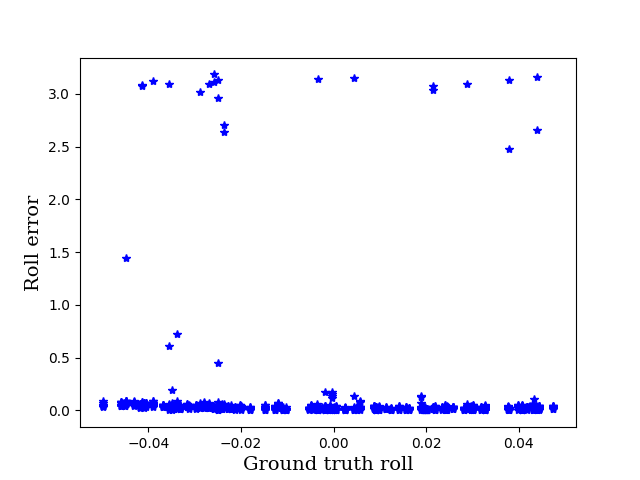
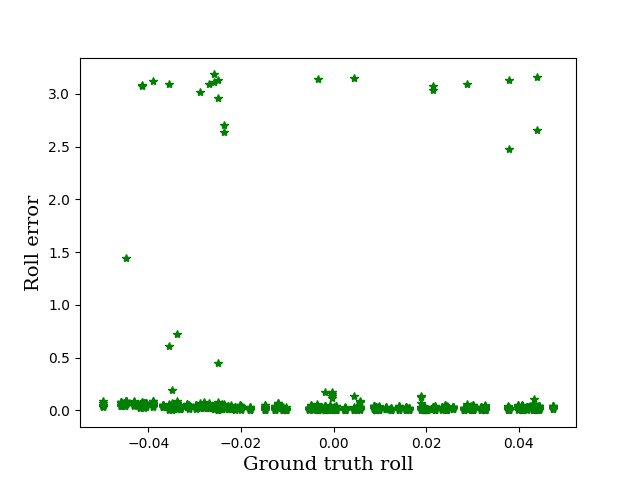
figures for boeing

diff --git a/landing_devel/surrogate_test.py b/landing_devel/surrogate_test.py
@@ -106,7 +106,7 @@ plt.legend()
 plt.savefig(os.path.join(script_dir,'surrogate_compare_z.png'))
 
 plt.figure()
-plt.plot(ground_truth_state[:,2], abs(predict_pos[:,2]-estimate_pos[:,2]), 'b*')
+plt.plot(ground_truth_state[:,2], abs(predict_pos[:,2]-estimate_pos[:,2]), 'g*')
 plt.xlabel("Ground truth", fontdict=font)
 plt.ylabel("z error", fontdict=font)
 plt.savefig(os.path.join(script_dir,'surrogate_error_z.png'))
@@ -123,7 +123,7 @@ plt.legend()
 plt.savefig(os.path.join(script_dir,'surrogate_compare_roll.png'))
 
 plt.figure()
-plt.plot(ground_truth_state[:,3], abs(predict_pos[:,3]-estimate_pos[:,3]), 'b*')
+plt.plot(ground_truth_state[:,3], abs(predict_pos[:,3]-estimate_pos[:,3]), 'g*')
 plt.xlabel("Ground truth roll", fontdict=font)
 plt.ylabel("Roll error", fontdict=font)
 plt.savefig(os.path.join(script_dir,'surrogate_error_roll.png'))
@@ -140,10 +140,10 @@ plt.legend()
 plt.savefig(os.path.join(script_dir,'surrogate_compare_pitch.png'))
 
 plt.figure()
-plt.plot(ground_truth_state[:,4], abs(predict_pos[:,4]-estimate_pos[:,4]), 'b*')
+plt.plot(ground_truth_state[:,4], abs(predict_pos[:,4]-estimate_pos[:,4]), 'g*')
 plt.xlabel("Ground truth pitch", fontdict=font)
 plt.ylabel("Pitch error", fontdict=font)
-plt.savefig(os.path.join(script_dir,'surrogate_error.png'))
+plt.savefig(os.path.join(script_dir,'surrogate_error_pitch.png'))
 
 plt.figure()
 # plt.plot(ground_truth_state[:,5],'g*', label='Ground Truth')
@@ -157,7 +157,7 @@ plt.legend()
 plt.savefig(os.path.join(script_dir,'surrogate_compare_yaw.png'))
 
 plt.figure()
-plt.plot(ground_truth_state[:,5], abs(predict_pos[:,5]-estimate_pos[:,5]), 'b*')
+plt.plot(ground_truth_state[:,5], abs(predict_pos[:,5]-estimate_pos[:,5]), 'g*')
 plt.xlabel("Ground truth yaw", fontdict=font)
 plt.ylabel("Yaw error", fontdict=font)
 plt.savefig(os.path.join(script_dir,'surrogate_error_yaw.png'))
